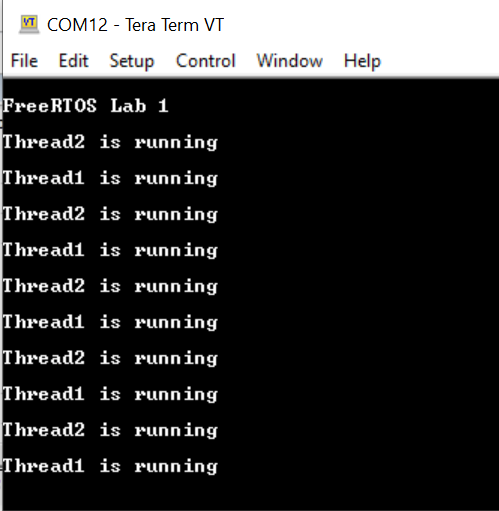
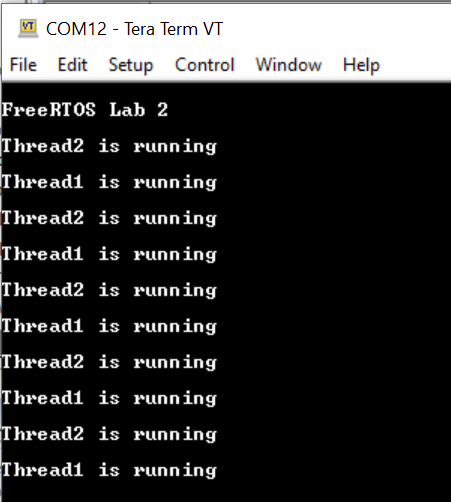
updated to lab2 instead of lab1

Changed region(s): [[0.0, 0.0, 1.0, 1.0]]

diff --git a/lab2/lab2/MDK-ARM/lab2/lab2.build_log.htm b/lab2/lab2/MDK-ARM/lab2/lab2.build_log.htm
@@ -27,6 +27,10 @@ Project File Date:  01/24/2020
 <h2>Output:</h2>
 *** Using Compiler 'V5.06 update 6 (build 750)', folder: 'C:\Keil_v5\ARM\ARMCC\Bin'
 Build target 'lab2'
+compiling main.c...
+linking...
+Program Size: Code=10772 RO-data=568 RW-data=124 ZI-data=4988  
+FromELF: creating hex file...
 "lab2\lab2.axf" - 0 Error(s), 0 Warning(s).
 
 <h2>Software Packages used:</h2>
@@ -50,7 +54,7 @@ Package Vendor: Keil
 <h2>Collection of Component Files used:</h2>
 
    * Component: ARM::CMSIS:CORE:5.2.0
-Build Time Elapsed:  00:00:01
+Build Time Elapsed:  00:00:13
 </pre>
 </body>
 </html>

diff --git a/lab2/lab2/MDK-ARM/lab2/lab2.htm b/lab2/lab2/MDK-ARM/lab2/lab2.htm
@@ -3,7 +3,7 @@
 <title>Static Call Graph - [lab2\lab2.axf]</title></head>
 <body><HR>
 <H1>Static Call Graph for image lab2\lab2.axf</H1><HR>
-<BR><P>#&#060CALLGRAPH&#062# ARM Linker, 5060750: Last Updated: Fri Jan 24 12:32:47 2020
+<BR><P>#&#060CALLGRAPH&#062# ARM Linker, 5060750: Last Updated: Fri Jan 24 12:36:52 2020
 <BR><P>
 <H3>Maximum Stack Usage =        360 bytes + Unknown(Cycles, Untraceable Function Pointers)</H3><H3>
 Call chain for Maximum Stack Depth:</H3>

diff --git a/lab2/lab2/Src/main.c b/lab2/lab2/Src/main.c
@@ -107,7 +107,7 @@ int main(void)
   MX_GPIO_Init();
   MX_USART1_UART_Init();
   /* USER CODE BEGIN 2 */
-	printf("\n\rFreeRTOS Lab 1\n\r");
+	printf("\n\rFreeRTOS Lab 2\n\r");
   /* USER CODE END 2 */
 
   /* USER CODE BEGIN RTOS_MUTEX */
